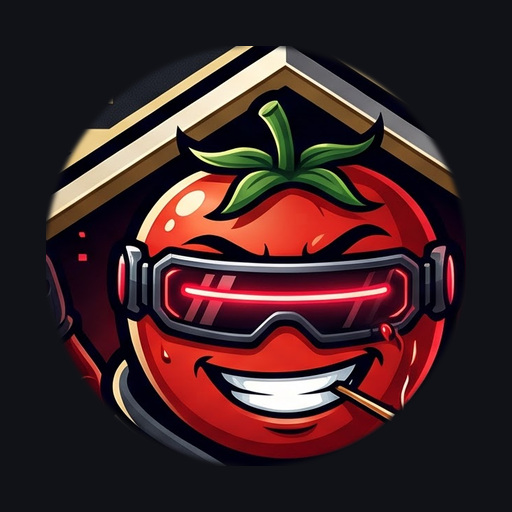
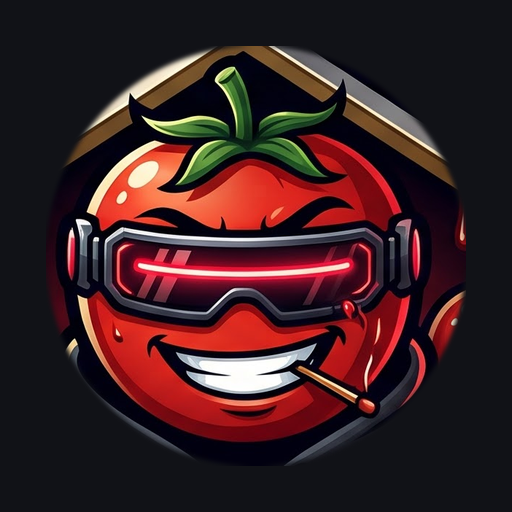
fix(branding): sygnet wycentrowany według obwiedni pomidora z pikseli
Claude-Session: https://claude.ai/code/session_01265sSe8vfNBzxvS2m17V1v

diff --git a/tools/branding/generate.py b/tools/branding/generate.py
@@ -21,7 +21,7 @@ S = 2.752
 SHIELD = tuple(int(v * S) for v in (280, 25, 722, 535))      # tarcza z napisem
 RIBBON = tuple(int(v * S) for v in (283, 385, 720, 505))      # wstęga z napisem
 CREST = tuple(int(v * S) for v in (283, 25, 720, 392))        # tarcza z postacią (bez napisu)
-HEAD = tuple(int(v * S) for v in (378, 50, 592, 262))         # głowa pomidora w goglach
+HEAD_SEARCH = tuple(int(v * S) for v in (398, 55, 590, 268))  # obszar poszukiwania głowy (bez butelki i małego pomidora)
 
 
 def remove_background(img: Image.Image) -> Image.Image:
@@ -78,12 +78,26 @@ def circle_mask(size, feather=2):
     return m.filter(ImageFilter.GaussianBlur(feather)) if feather else m
 
 
+def tomato_bbox(src_rgb: Image.Image):
+    """Obwiednia pomidora wyznaczona z pikseli (czerwień skórki + zieleń liści) w obszarze głowy.
+    Percentyle 1-99 odrzucają pojedyncze krople i glitche."""
+    x0, y0, x1, y1 = HEAD_SEARCH
+    arr = np.array(src_rgb.crop((x0, y0, x1, y1))).astype(int)
+    r, g, b = arr[:, :, 0], arr[:, :, 1], arr[:, :, 2]
+    red = (r > 150) & (g < 95) & (b < 95)
+    green = (g > 110) & (r < 130) & (b < 100) & (g > r)
+    ys, xs = np.nonzero(red | green)
+    lo_x, hi_x = np.percentile(xs, [1, 99])
+    lo_y, hi_y = np.percentile(ys, [1, 99])
+    return x0 + lo_x, y0 + lo_y, x0 + hi_x, y0 + hi_y
+
+
 def make_mark(src_rgb: Image.Image) -> Image.Image:
-    """Sygnet: głowa pomidora w kole (przezroczyste tło poza kołem)."""
-    x0, y0, x1, y1 = HEAD
-    cx, cy = (x0 + x1) // 2, (y0 + y1) // 2
-    r = max(x1 - x0, y1 - y0) // 2 + 8
-    head = src_rgb.crop((cx - r, cy - r, cx + r, cy + r)).convert("RGBA")
+    """Sygnet: głowa pomidora wycentrowana według obwiedni z pikseli, w kole (przezroczyste tło poza kołem)."""
+    bx0, by0, bx1, by1 = tomato_bbox(src_rgb)
+    cx, cy = (bx0 + bx1) / 2, (by0 + by1) / 2
+    r = int(max(bx1 - bx0, by1 - by0) / 2 * 1.28)
+    head = src_rgb.crop((int(cx - r), int(cy - r), int(cx + r), int(cy + r))).convert("RGBA")
     head.putalpha(circle_mask(head.width, feather=3))
     return head
 
